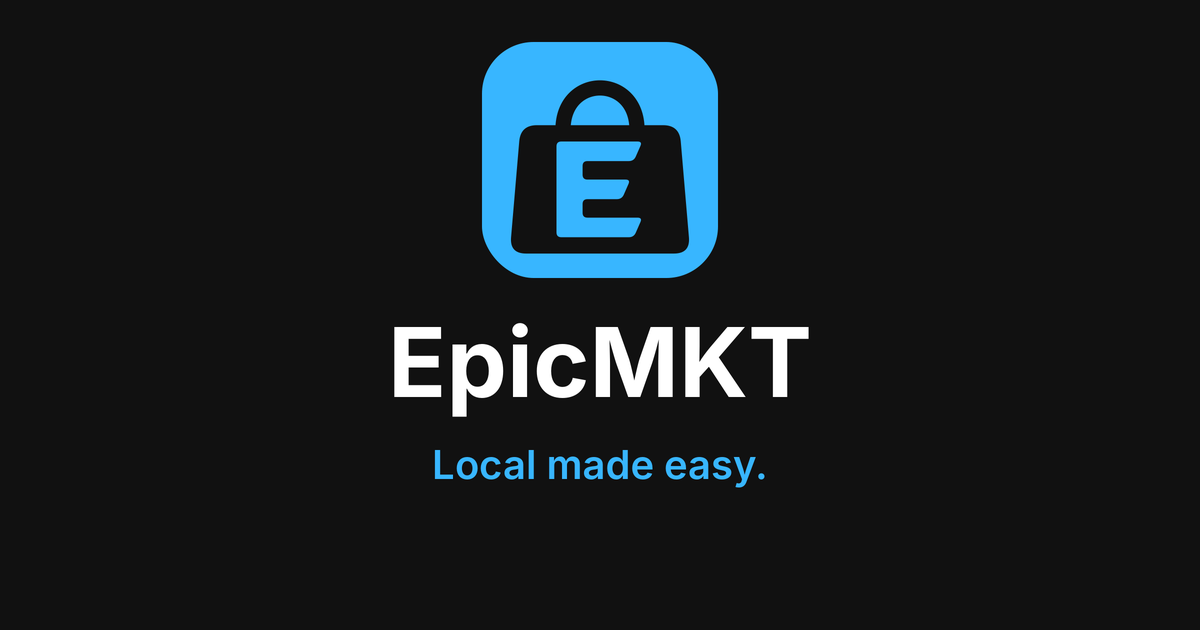
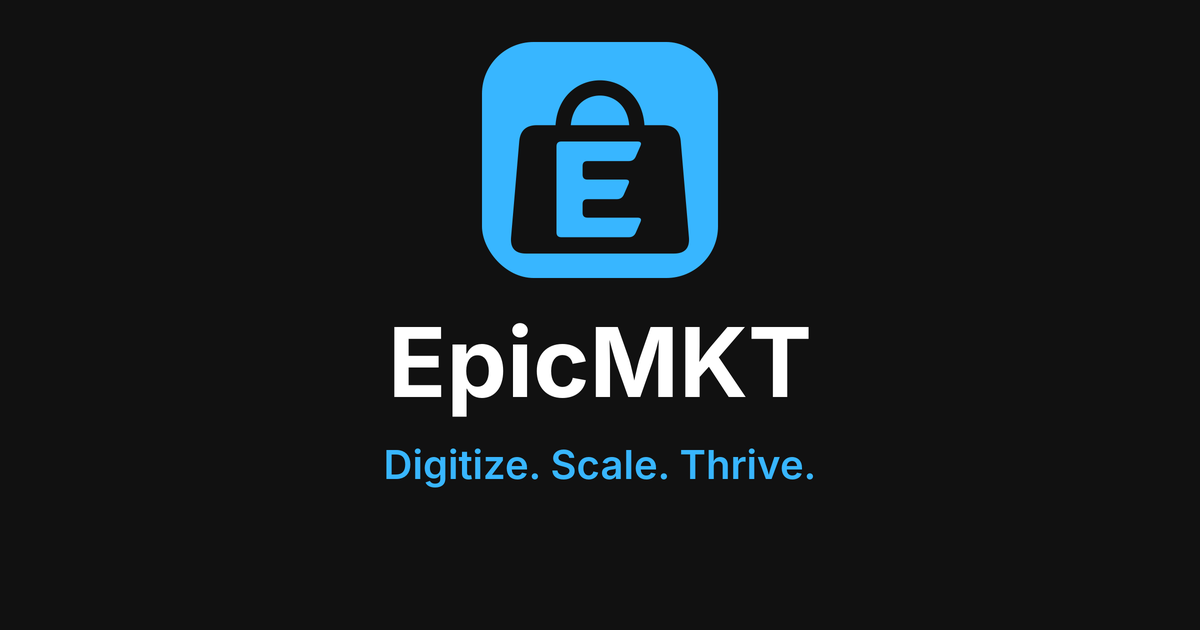
Motto: Digitize. Scale. Thrive.
Replaces "Local made easy." in the footer, structured data, share card and full logo.

Claude-Session: https://claude.ai/code/session_01ANUGXELvPQQ3DWFQsNfZwr

Changed region(s): [[0.3083, 0.6937, 0.6783, 0.7841]]

diff --git a/client/src/components/Footer.jsx b/client/src/components/Footer.jsx
@@ -110,7 +110,7 @@ export default function Footer() {
     <footer className={styles.footer} data-theme="light">
       <Container className={styles.top}>
         <div className={`${styles.brand} ${styles.about}`}>
-          <Logo tagline="Local made easy." />
+          <Logo tagline="Digitize. Scale. Thrive." />
           <p className={styles.aboutText}>
             EpicMKT is a directory of local businesses across Kenya. Find what you need nearby, then call, WhatsApp or get directions in one tap.
           </p>

diff --git a/client/seo.js b/client/seo.js
@@ -2,7 +2,7 @@
 // Kept as plain functions so they can be unit tested (seo.test.js).
 
 export const SITE_NAME = "EpicMKT";
-export const SITE_SLOGAN = "Local made easy.";
+export const SITE_SLOGAN = "Digitize. Scale. Thrive.";
 export const SITE_ALT_NAMES = ["Epic MKT", "EpicMKT Kenya", "EpicMKT App"];
 export const SITE_DESCRIPTION =
   "Find barbershops, water refill points, chemists, agrovets, gyms and more near you in Kenya. Call, WhatsApp or get directions.";
